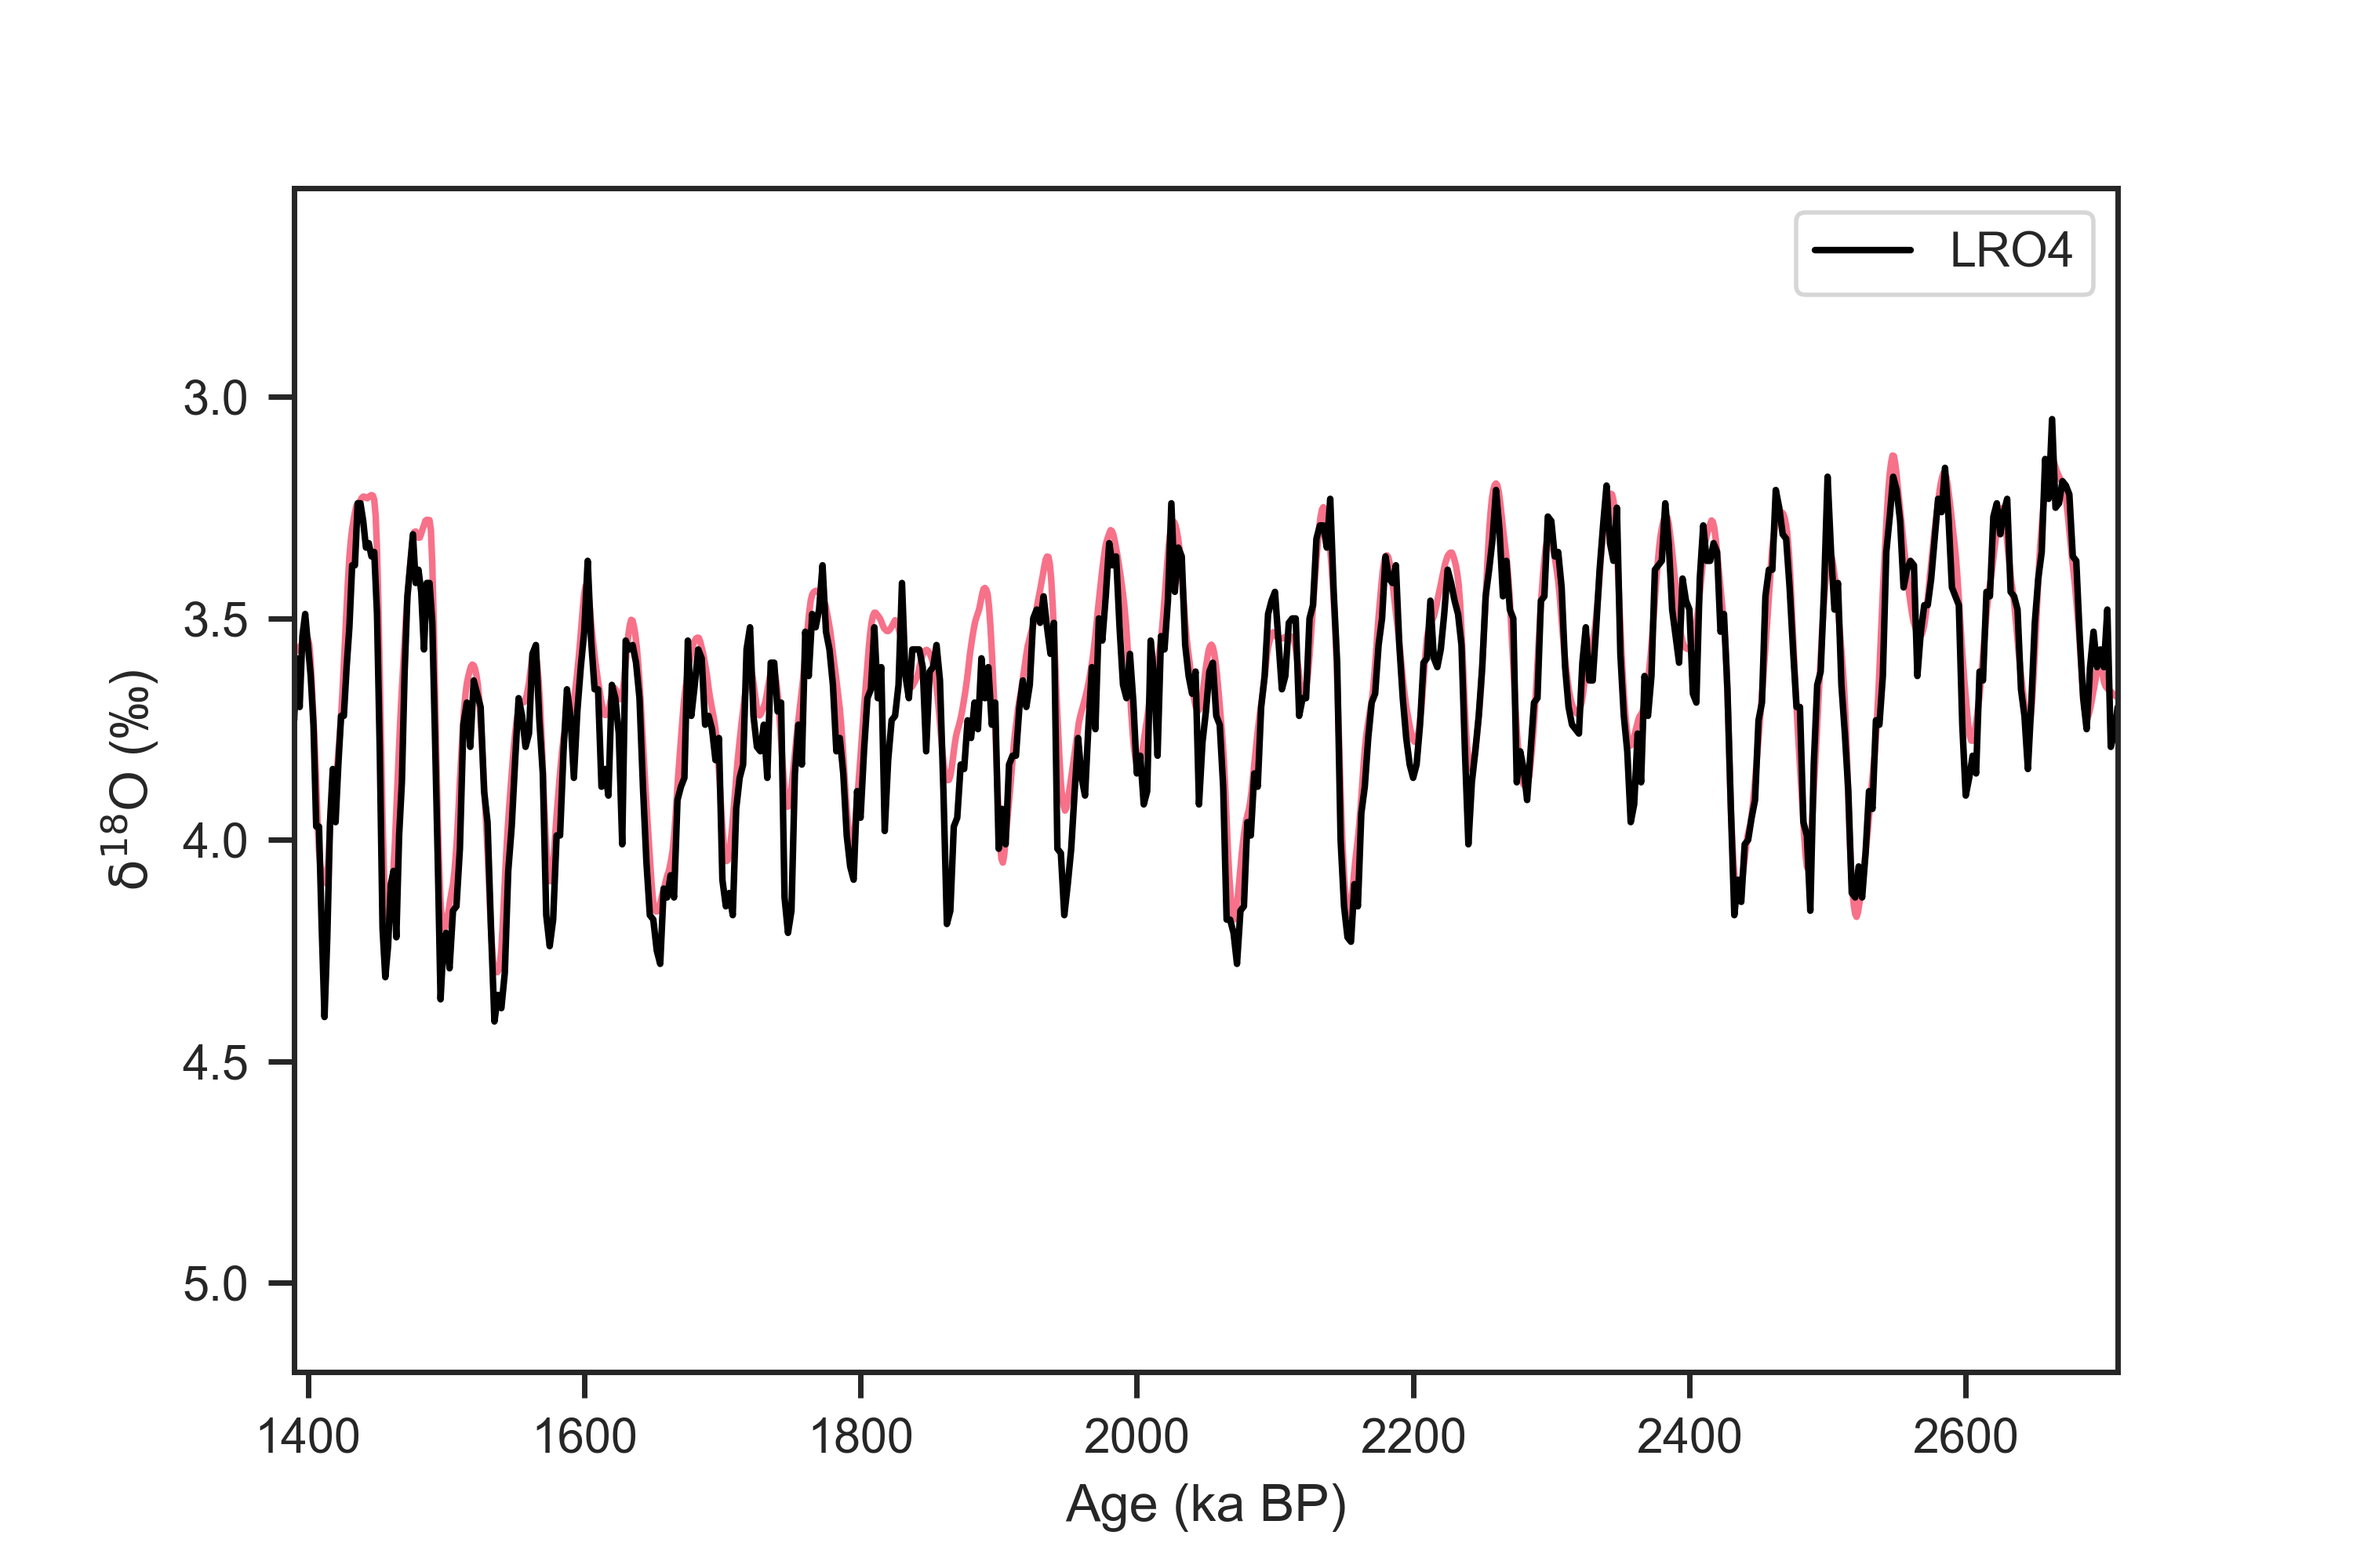
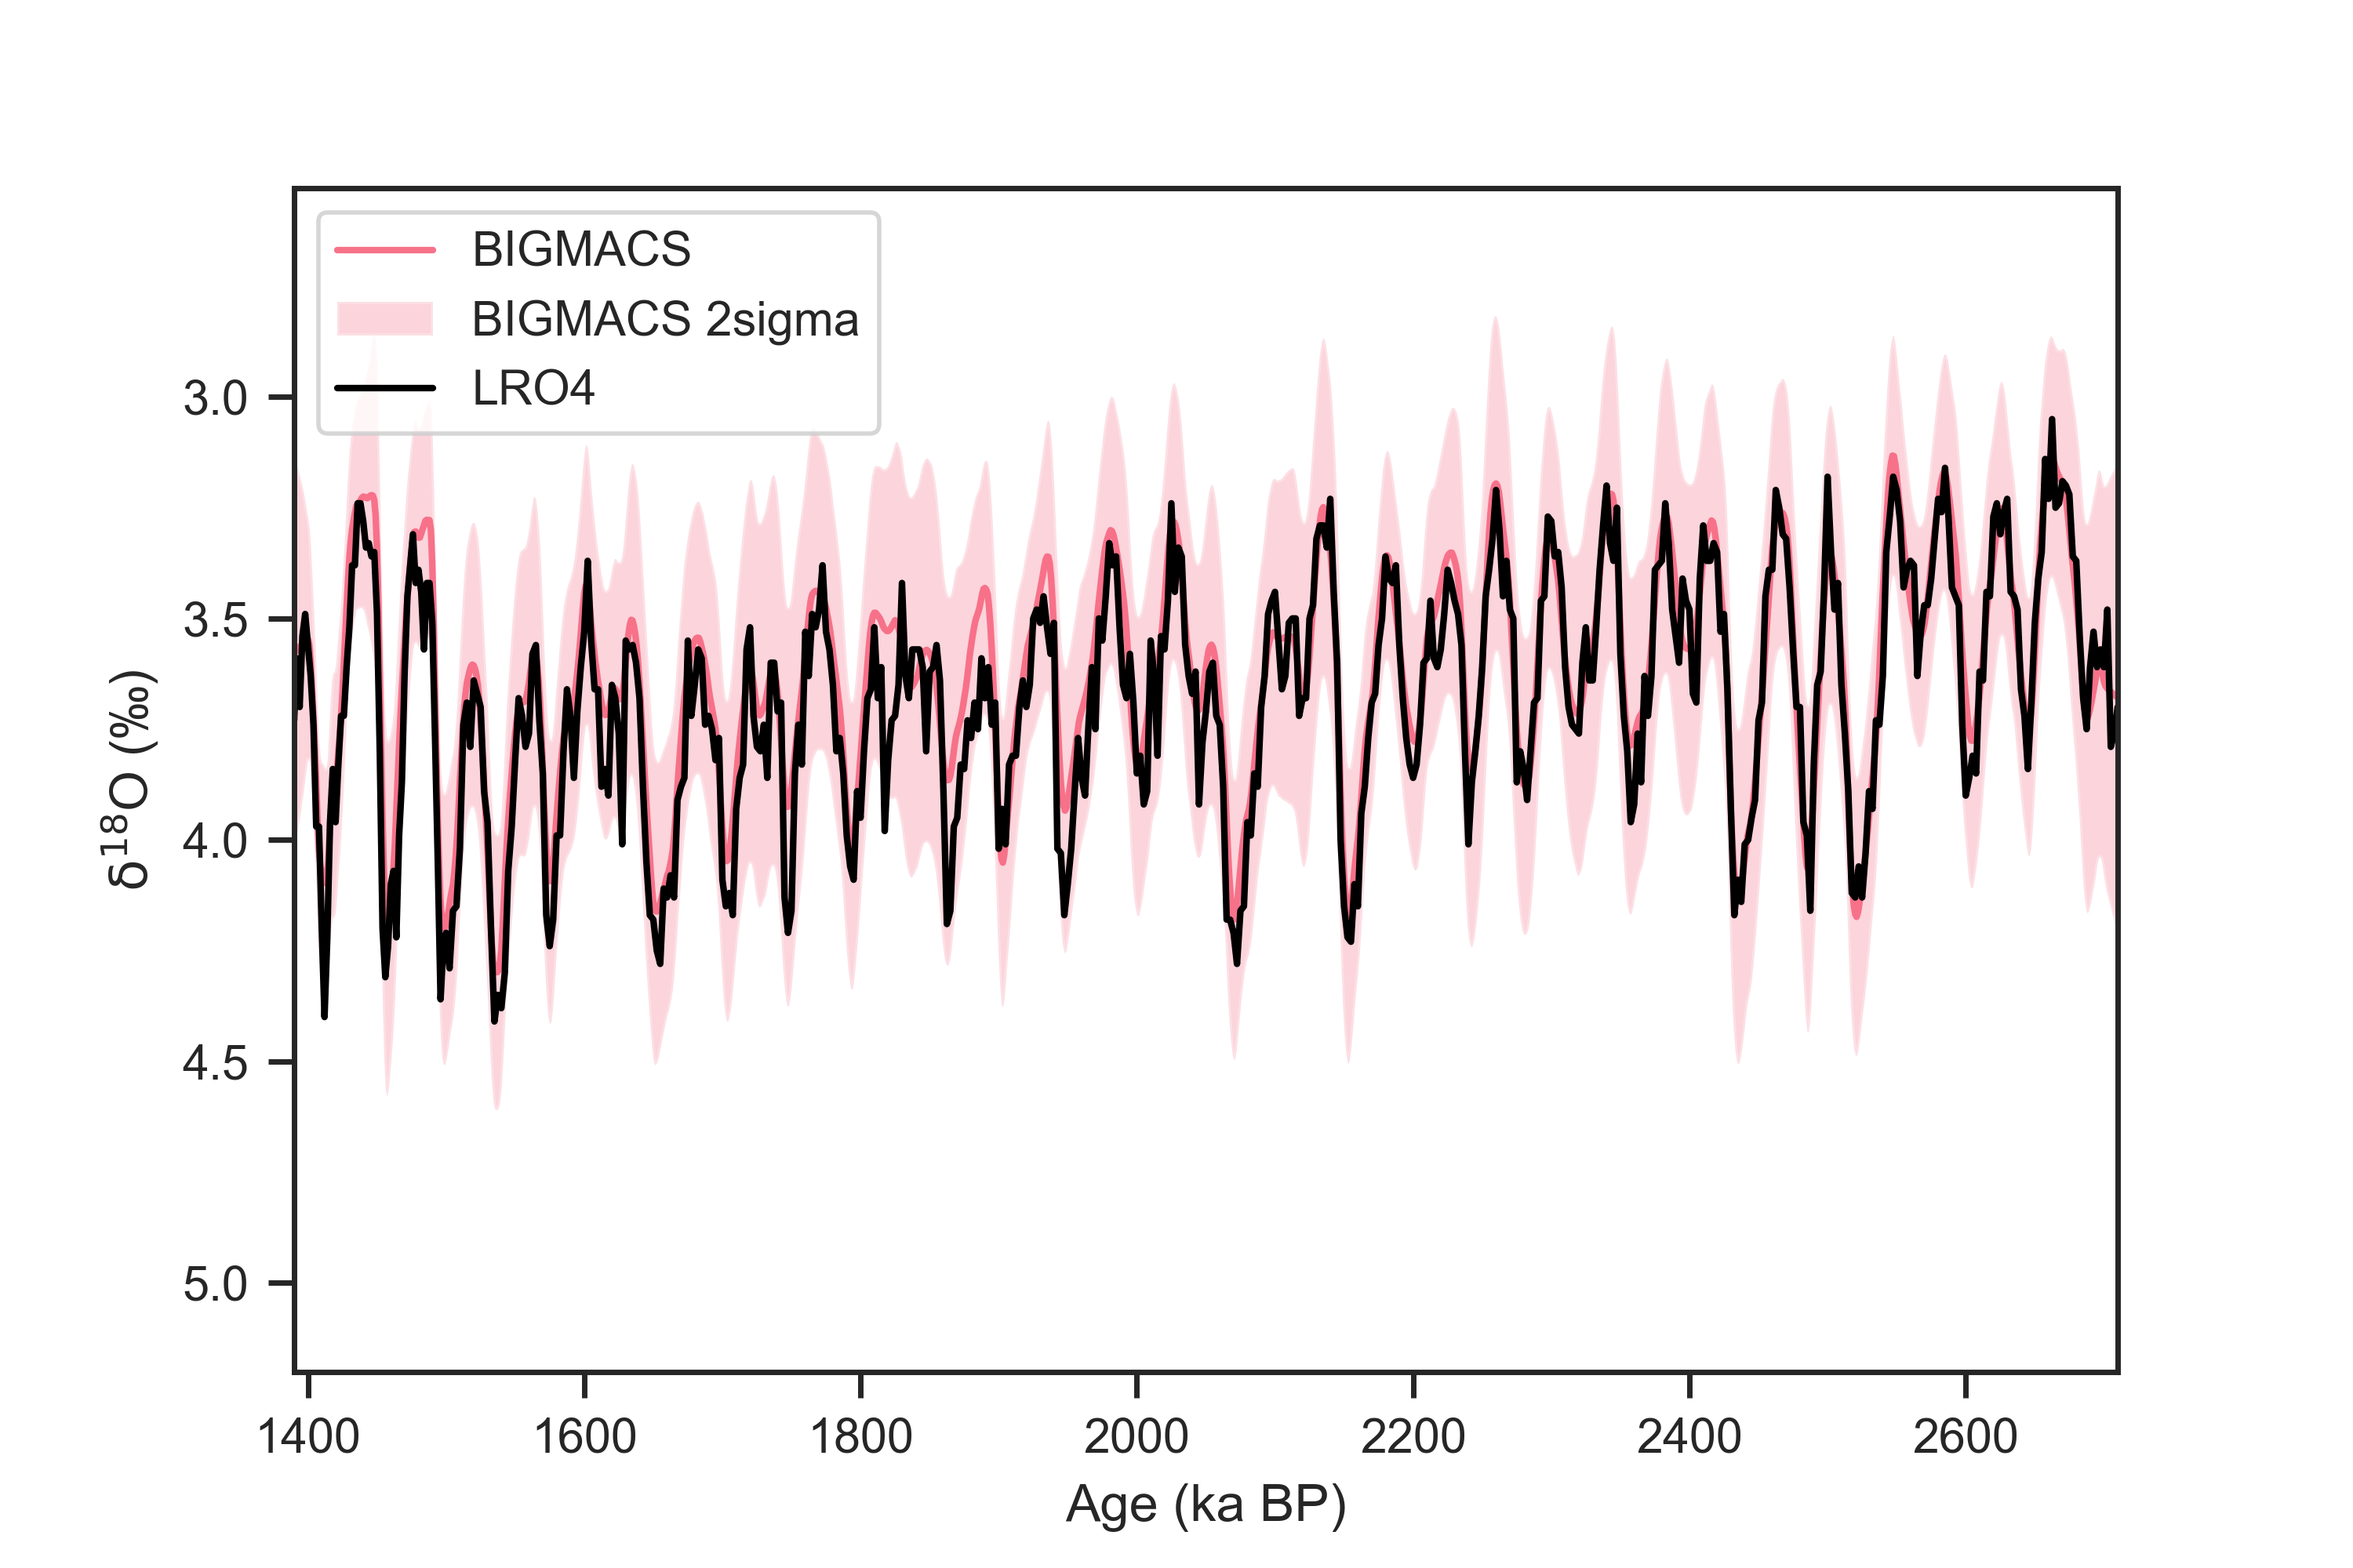
R7 analysis

diff --git a/Outputs/R7_d18O_stack/python/age_model_distribution.py b/Outputs/R7_d18O_stack/python/age_model_distribution.py
@@ -1,0 +1,39 @@
+#!/usr/bin/env python3
+# -*- coding: utf-8 -*-
+"""
+Created on Wed Oct 19 14:48:09 2022
+
+@author: zhou
+"""
+
+import scipy.io
+import matplotlib.pyplot as plt
+
+mat = scipy.io.loadmat('../results.mat')
+
+# summary is where detailed data is stored
+mat_summary = mat['summary']
+# Find ODP928 age samples
+ODP928_age_samples = mat_summary['age_samples'][mat_summary['name']==['ODP928']][0]
+ODP928_depths = mat_summary['depth'][mat_summary['name']==['ODP928']][0]
+
+for i in range(1000):
+    plt.plot(ODP928_age_samples[:,i], ODP928_depths, color='k', alpha=0.1)
+
+# plt.savefig('ODP928_age_model_distribution.png', dpi=500)
+
+#%% histogram for 60 m
+import numpy as np
+import matplotlib.pyplot as plt
+
+n, bins, patches = plt.hist(ODP928_age_samples[(ODP928_depths==57.99).flatten(), :].flatten(),
+          bins=50,
+          density=True,
+          stacked=True,
+          facecolor='gray',
+          alpha=0.75)
+
+plt.xlabel('Age (ka)')
+plt.ylabel('Frequency')
+plt.title('Age estimate distribution. ODP 928. Depth = 57.99 m')
+plt.savefig('ODP928_5799m_age_distribution.png', dpi=500)

diff --git a/Outputs/R7_d18O_stack/python/stack_LR04.py b/Outputs/R7_d18O_stack/python/stack_LR04.py
@@ -32,7 +32,13 @@ LR04 = LR04_fetching_func.fetch_d18O()
 #%% plot
 fig, axes = plt.subplots(1,1, sharex=False)
 
-axes.plot(stack['age(kyr)'], stack['mean(permil)'])
+axes.plot(stack['age(kyr)'], stack['mean(permil)'], label='BIGMACS')
+axes.fill_between(stack['age(kyr)'],
+                  stack['mean(permil)']+2*stack['sigma(permil)'],
+                  stack['mean(permil)']-2*stack['sigma(permil)'],
+                  alpha=0.3,
+                  label='BIGMACS 2sigma')
+
 axes.plot(LR04.index/1000, LR04, label='LRO4', color='k')
 axes.set_xlim((stack['age(kyr)'].min(),stack['age(kyr)'].max()))
 axes.invert_yaxis()
